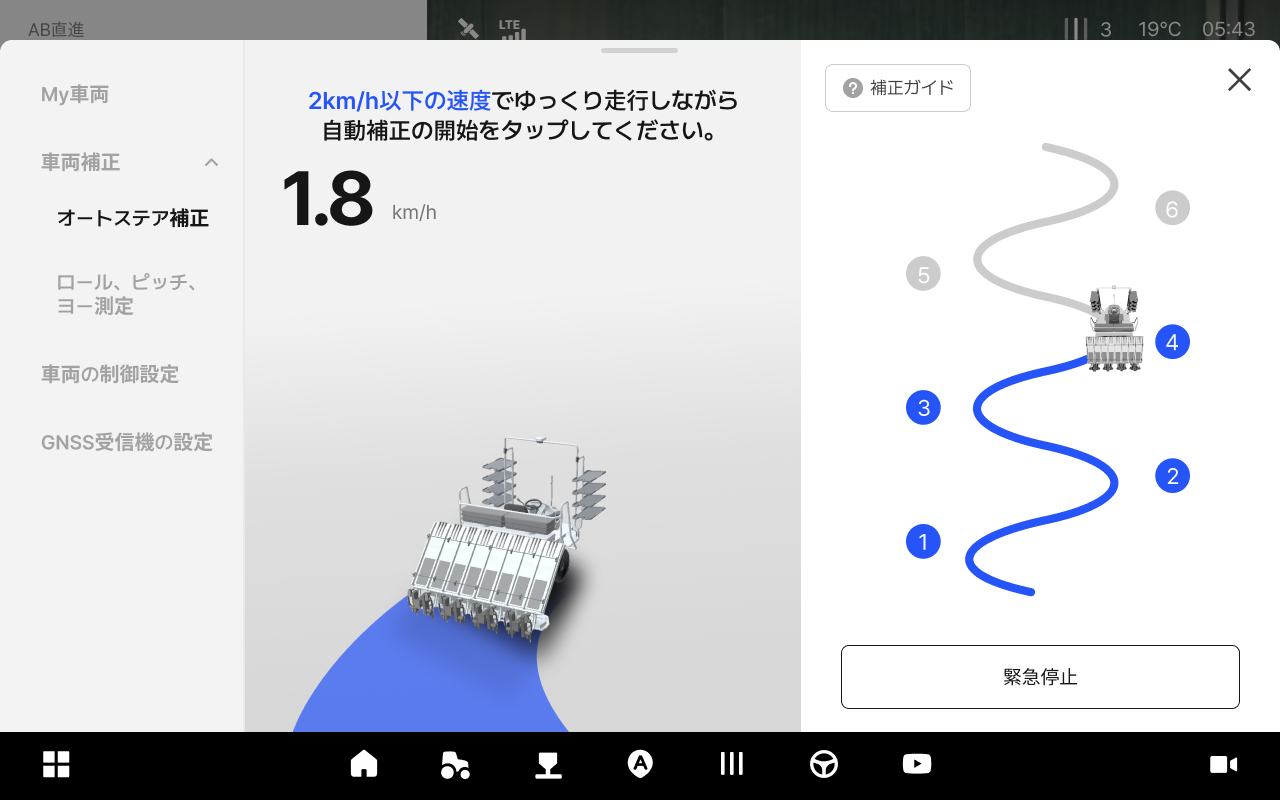
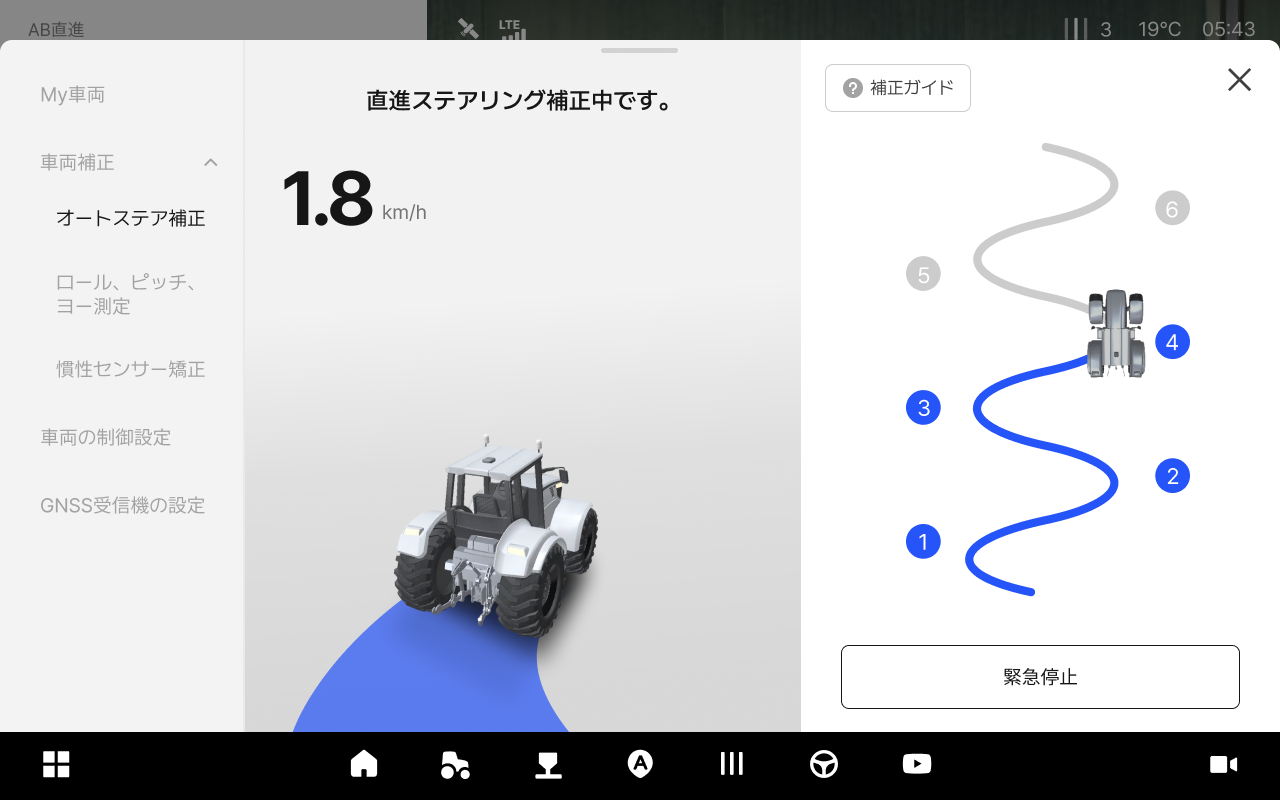
GITBOOK-28: No subject

diff --git a/ion-ownersmanual-jp/ion/vehicle-settings/vehicle-control-settings.md b/ion-ownersmanual-jp/ion/vehicle-settings/vehicle-control-settings.md
@@ -15,6 +15,8 @@ layout:
     visible: true
   tags:
     visible: true
+  actions:
+    visible: true
 metaLinks:
   alternates:
     - >-
@@ -49,11 +51,9 @@ metaLinks:
 
 #### 車両の制御設定のご案内
 
-> #### 一般設定方法
+> **一般設定方法**
 
 <div align="left"><figure><img src="../../.gitbook/assets/general-settings.png" alt=""><figcaption></figcaption></figure></div>
-
-&#x20;
 
 ![](../../.gitbook/assets/icon-square-1.svg) **自動操舵の解除の許可**
 
@@ -72,8 +72,6 @@ metaLinks:
 {% hint style="info" %}
 アイコンを押すと、その機能に関する説明を確認できます。
 {% endhint %}
-
-&#x20;
 
 ![](../../.gitbook/assets/icon-square-2.svg) **経路の進入距離の設定**
 
@@ -95,25 +93,21 @@ metaLinks:
 <img src="../../.gitbook/assets/ic_circle_help.svg" alt="" data-size="line">アイコンを押すと、その機能に関する説明を確認できます。
 {% endhint %}
 
-
-
-> #### 詳細設定の方法
+> **詳細設定の方法**
 
 {% stepper %}
 {% step %}
 詳細設定 <img src="../../.gitbook/assets/ic_arrow_tiny.svg" alt="" data-size="line"> をタップし、高度な設定機能を使用できます。
 
 <div align="left"><figure><img src="../../.gitbook/assets/advanced-settings.png" alt=""><figcaption></figcaption></figure></div>
-
-
 {% endstep %}
 {% endstepper %}
 
-> #### 詳細設定項目のご案内
+> **詳細設定項目のご案内**
 
 #### **a.** 自動操舵の解除の許可（前進）
 
-&#x20;![](../../.gitbook/assets/icon-square-1.svg)  **前進での開始条件**
+![](../../.gitbook/assets/icon-square-1.svg) **前進での開始条件**
 
 1. 前進開始条件 ：前進で自動操舵を開始する際に、安全条件を使用するかどうかを設定します。
 
@@ -149,8 +143,6 @@ metaLinks:
 {% hint style="info" %}
 この速度より速く走行している場合は、自動操舵を開始できません。
 {% endhint %}
-
-&#x20;
 
 ![](../../.gitbook/assets/icon-square-2.svg) **前進での解除条件**
 
@@ -195,8 +187,6 @@ metaLinks:
 この速度より速く走行すると、自動操舵が自動で解除されます。
 {% endhint %}
 
-&#x20;
-
 ![](../../.gitbook/assets/icon-square-3.svg) **前進での最低速度条件**
 
 * 前進自動操舵に必要な最低速度を設定します。
@@ -209,11 +199,9 @@ metaLinks:
 開始条件と解除条件の使用有無に応じて、該当する時点でのみ適用されます。
 {% endhint %}
 
-
-
 #### **b.** 自動操舵の解除の許可 (後進)
 
-&#x20;![](../../.gitbook/assets/icon-square-1.svg)  **後進での開始条件**
+![](../../.gitbook/assets/icon-square-1.svg) **後進での開始条件**
 
 1. 後進開始条件 ：後進で自動操舵を開始する際に、安全条件を使用するかどうかを設定します。
 
@@ -244,9 +232,7 @@ metaLinks:
 この速度より速く走行している場合は、自動操舵を開始できません。
 {% endhint %}
 
-
-
-&#x20;![](../../.gitbook/assets/icon-square-2.svg)  **後進での解除条件**
+![](../../.gitbook/assets/icon-square-2.svg) **後進での解除条件**
 
 1. 後進解除条件の使用 ：後進時に条件から外れた場合、自動操舵を自動で解除するかどうかを設定します。
 
@@ -289,9 +275,7 @@ metaLinks:
 この速度より速く走行すると、自動操舵が自動で解除されます。
 {% endhint %}
 
-
-
-&#x20;![](../../.gitbook/assets/icon-square-3.svg)  **後進での最低速度条件**
+![](../../.gitbook/assets/icon-square-3.svg) **後進での最低速度条件**
 
 * 後進自動操舵に必要な最低速度を設定します。
 
@@ -303,11 +287,9 @@ metaLinks:
 開始条件と解除条件の使用有無に応じて、該当する時点でのみ適用されます。
 {% endhint %}
 
-
-
 #### **c.** 経路の進入距離の詳細設定
 
-&#x20;![](../../.gitbook/assets/icon-square-1.svg)  **進入傾向**
+![](../../.gitbook/assets/icon-square-1.svg) **進入傾向**
 
 1. 前進経路の進入距離 : 前進で車両が経路上のどれくらい遠い地点を目標に進入するかを設定します。
 
@@ -341,9 +323,7 @@ metaLinks:
 車両の経路進入度合いを調整するには、進入距離 → 進入角度 → 進入時間の順に設定することをおすすめします。
 {% endhint %}
 
-&#x20;
-
-![](../../.gitbook/assets/icon-square-2.svg)  **追従感度**
+![](../../.gitbook/assets/icon-square-2.svg) **追従感度**
 
 1. 前進経路の追従感度 : 前進で進入した後、経路をどれだけ正確に追従するかを設定します。
 
@@ -365,9 +345,7 @@ metaLinks:
 この設定は走行性能に大きな影響を与えるため、慎重に調整してください。
 {% endhint %}
 
-
-
-![](../../.gitbook/assets/icon-square-3.svg)  **ステアリング感度**
+![](../../.gitbook/assets/icon-square-3.svg) **ステアリング感度**
 
 1. ランディング前の前進ステアリング感度 : 前進で経路に完全に入る前のステアリング感度を設定します。
 
@@ -409,9 +387,7 @@ metaLinks:
 値が大きいほど経路の内側に入り、積極的にターンします。
 {% endhint %}
 
-
-
-![](../../.gitbook/assets/icon-square-4.svg)  **曲率半径の制限**
+![](../../.gitbook/assets/icon-square-4.svg) **曲率半径の制限**
 
 * カーブ経路の生成時に最大曲率を制限して経路を補正します。
 

diff --git a/ion-ownersmanual-jp/ion/vehicle-settings/autostere-calibration.md b/ion-ownersmanual-jp/ion/vehicle-settings/autostere-calibration.md
@@ -15,6 +15,8 @@ layout:
     visible: true
   tags:
     visible: true
+  actions:
+    visible: true
 metaLinks:
   alternates:
     - >-
@@ -138,7 +140,7 @@ metaLinks:
 {% step %}
 引き続き2km/h以下で走行してください。
 
-<figure><img src="../../.gitbook/assets/tractor-straight-steering-3.png" alt=""><figcaption></figcaption></figure>
+<figure><img src="../../.gitbook/assets/leeangi-straight-steering-3.png" alt=""><figcaption></figcaption></figure>
 
 {% hint style="info" %}
 補正に必要な面積が確保できない場合や、走行不可の場合は緊急停止を押してください。
@@ -148,7 +150,7 @@ metaLinks:
 {% step %}
 補正が完了すると\[確認]ボタンが有効になります。ボタンを押して補正を完了してください。
 
-<figure><img src="../../.gitbook/assets/tractor-straight-steering-4.png" alt=""><figcaption></figcaption></figure>
+<figure><img src="../../.gitbook/assets/leeangi-straight-steering-4.png" alt=""><figcaption></figcaption></figure>
 {% endstep %}
 {% endstepper %}
 
@@ -233,7 +235,7 @@ metaLinks:
 {% step %}
 引き続き時速1km以下で走行します。
 
-<figure><img src="../../.gitbook/assets/tractor-straight-steering-3.png" alt=""><figcaption></figcaption></figure>
+<figure><img src="../../.gitbook/assets/leeangi-straight-steering-3.png" alt=""><figcaption></figcaption></figure>
 
 {% hint style="info" %}
 補正に必要な面積が確保できない場合や、走行不可の場合は緊急停止を押してください。
@@ -243,7 +245,7 @@ metaLinks:
 {% step %}
 補正が完了すると、\[ステアリング角度補正の開始]ボタンが有効になります。ボタンを押して次の補正を進めてください。
 
-<figure><img src="../../.gitbook/assets/tractor-straight-steering-4.png" alt=""><figcaption></figcaption></figure>
+<figure><img src="../../.gitbook/assets/leeangi-straight-steering-4.png" alt=""><figcaption></figcaption></figure>
 {% endstep %}
 {% endstepper %}
 

diff --git a/ion-ownersmanual-jp/ion/report.md b/ion-ownersmanual-jp/ion/report.md
@@ -1,7 +1,7 @@
 ---
 metaLinks:
   alternates:
-    - https://app.gitbook.com/s/4rNrDNCqOFVCh006UOXy/ion/report
+    - /broken/spaces/4rNrDNCqOFVCh006UOXy/pages/CnPOTOY3MQc4NV6zawgQ
 ---
 
 # 作業レポート
@@ -121,4 +121,3 @@ metaLinks:
 ![](../.gitbook/assets/icon-square-8.svg) **天候情報**
 
 * 作業当時の気温、湿度、風速が表示されます。高温・多湿・強風などの作業当時の環境状況も併せて表示されます。
-

diff --git a/ion-ownersmanual-jp/ion/settings/my-info.md b/ion-ownersmanual-jp/ion/settings/my-info.md
@@ -2,7 +2,7 @@
 hidden: true
 metaLinks:
   alternates:
-    - https://app.gitbook.com/s/4rNrDNCqOFVCh006UOXy/ion/settings/my-info
+    - /broken/spaces/4rNrDNCqOFVCh006UOXy/pages/0xoCQCAoGrTtbOiCUfQX
 ---
 
 # My情報

diff --git a/ion-ownersmanual-jp/ion/settings/system.md b/ion-ownersmanual-jp/ion/settings/system.md
@@ -1,7 +1,7 @@
 ---
 metaLinks:
   alternates:
-    - https://app.gitbook.com/s/4rNrDNCqOFVCh006UOXy/ion/settings/system
+    - /broken/spaces/4rNrDNCqOFVCh006UOXy/pages/YlMQfDMMRBYJ4h9o2Ed2
 ---
 
 # システム設定

diff --git a/ion-ownersmanual-jp/ion/settings/README.md b/ion-ownersmanual-jp/ion/settings/README.md
@@ -1,7 +1,7 @@
 ---
 metaLinks:
   alternates:
-    - https://app.gitbook.com/s/4rNrDNCqOFVCh006UOXy/ion/settings
+    - /broken/spaces/4rNrDNCqOFVCh006UOXy/pages/5t9y2fFjhzSAmAPBBbWe
 ---
 
 # その他の設定
